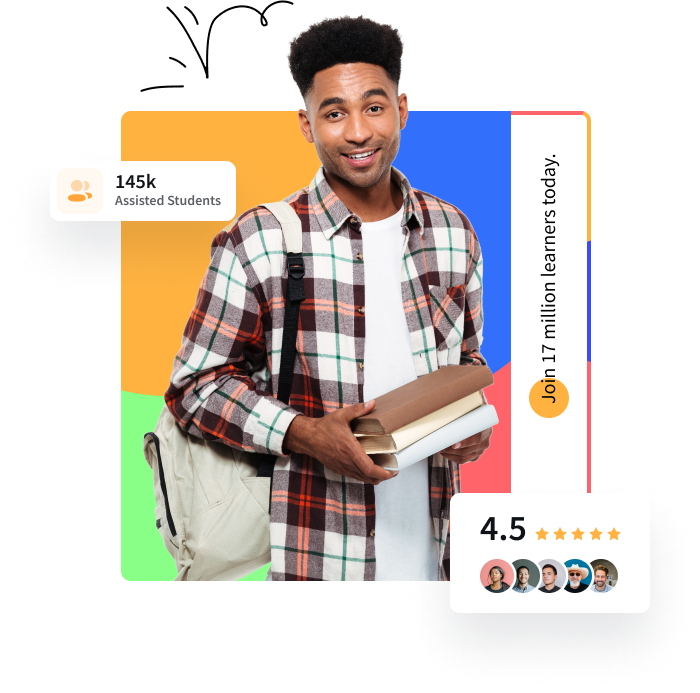
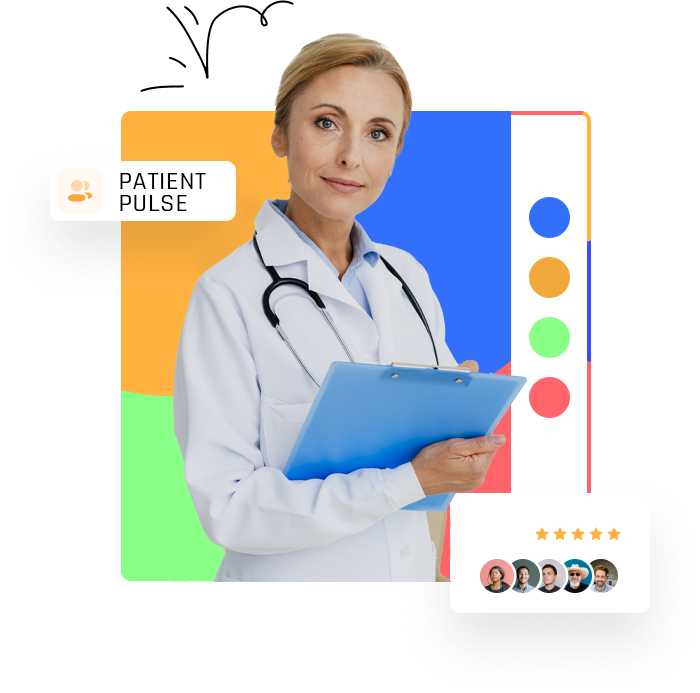
Refactor text in BannerSection and TestimonialSection components

Changed region(s): [[0.15, 0.0, 0.84, 0.8485], [0.69, 0.7273, 0.75, 0.7879]]

diff --git a/Front/src/pages/about/TestimonialSection.js b/Front/src/pages/about/TestimonialSection.js
@@ -42,157 +42,9 @@ const Testimonial = () => {
         ]
     };
 
-    const [state, setState] = useState(true);
-
-    const counters = [
-        {
-            countNum: 350,
-            countTitle: 'Total Case Handled',
-            countSubtext: '',
-            countIcon: countIcon1,
-        },
-        {
-            countNum: 500,
-            countTitle: 'Happy Patients',
-            countSubtext: '',
-            countIcon: countIcon2,
-        },
-        {
-            countNum : 30,
-            countTitle: 'Registered Patients',
-            countSubtext: '',
-            countIcon: countIcon3,
-        },
-        {
-            countNum : 10,
-            countTitle: 'Years of Experience',
-            countSubtext: '',
-            countIcon: countIcon4,
-        }
-
-    ];
-
-
-    return (
-        <div className="student_satisfaction-section pt---110 pb---120">
-            <div className="container"> 
-                <div className="react__title__section-all pb---30">
-                    <div className="row">
-                        <div className="col-md-12 text-center">
-                            <h6 className="wow animate__fadeInUp" data-wow-duration="0.3s">Patient Satisfaction</h6>
-                            <h2 className="react__tittle wow animate__fadeInUp" data-wow-duration="0.5s">Patient Feedback</h2>
-                        </div>                                
-                    </div>                            
-                </div>                       
-                <div className="feedreact-slider owl-carousel">
-                    <Slider {...sliderSettings}>
-                        <div className="event__card">
-                            <div className="event__card--content">
-                                <div className="event__card--content-area">
-                                    <div className="testimonial__ratings">
-                                        <em className="icon_star"></em>
-                                        <em className="icon_star"></em>
-                                        <em className="icon_star"></em>
-                                        <em className="icon_star"></em>
-                                        <em className="icon_star_alt"></em>
-                                        <span> (14 Reviews) </span>
-                                    </div>
-                                    <div className="parag">We are a Portsmouth based web design and e-marketing agency. We understand how important a website is to any business, big or small. Your online presence is now more important than ever before.</div>
-                                </div>
-                                <img className="poly" src={polyImg} alt="image" />
-                            </div>
-                            <div className="author-sec">
-                                <div className="icon">
-                                    <img src={testiImg1} alt="image" />
-                                </div>
-                                <div className="text">
-                                    <h4>Kasun Perera</h4>
-                                    <p>Journalist</p>
-                                </div>
-                            </div>
-                        </div>
-                        <div className="event__card">
-                            <div className="event__card--content">
-                                <div className="event__card--content-area">
-                                    <div className="testimonial__ratings">
-                                        <em className="icon_star"></em>
-                                        <em className="icon_star"></em>
-                                        <em className="icon_star"></em>
-                                        <em className="icon_star"></em>
-                                        <em className="icon_star"></em>
-                                        <span> (18 Reviews) </span>
-                                    </div>
-                                    <div className="parag">We are a Portsmouth based web design and e-marketing agency. We understand how important a website is to any business, big or small. Your online presence is now more important than ever before.</div>
-                                </div>
-                                <img className="poly" src={polyImg} alt="image" />
-                            </div>
-                            <div className="author-sec">
-                                <div className="icon">
-                                    <img src={testiImg2} alt="image" />
-                                </div>
-                                <div className="text">
-                                    <h4>Hansana Dhanuri</h4>
-                                    <p>Teacher</p>
-                                </div>
-                            </div>
-                        </div>
-                        <div className="event__card">
-                            <div className="event__card--content">
-                                <div className="event__card--content-area">
-                                    <div className="testimonial__ratings">
-                                        <em className="icon_star"></em>
-                                        <em className="icon_star"></em>
-                                        <em className="icon_star"></em>
-                                        <em className="icon_star_alt"></em>
-                                        <em className="icon_star_alt"></em>
-                                        <span> (26 Reviews) </span>
-                                    </div>
-                                    <div className="parag">We are a Portsmouth based web design and e-marketing agency. We understand how important a website is to any business, big or small. Your online presence is now more important than ever before.</div>
-                                </div>
-                                <img className="poly" src={polyImg} alt="image" />
-                            </div>
-                            <div className="author-sec">
-                                <div className="icon">
-                                    <img src={testiImg3} alt="image" />
-                                </div>
-                                <div className="text">
-                                    <h4>Chandika Dewruwan</h4>
-                                    <p>Manager</p>
-                                </div>
-                            </div>
-                        </div>
-                    </Slider>
-                </div>
-            </div>
-            {counters &&
-                <div className="count__area2 pb---100">
-                    <div className="container">  
-                        <ul className="row">
-                            {counters.map( (counter, num) => (  
-                                <li key={num} className="col-xxl-3 col-xl-3 col-lg-3 col-md-3 col-sm-6">
-                                    <div className="count__content">
-                                        <div className="icon">
-                                            <img src={counter.countIcon} alt="image" />
-                                        </div>
-                                        <div className="text">
-                                            <CountUp start={state ? 0 : counter.countNum} end={counter.countNum} duration={10} onEnd= {()=> setState(false)} />
-                                            {({ countUpRef, start }) => (
-                                                <VisibilitySensor onChange={start} delayedCall>
-                                                    <span ref={countUpRef} />
-                                                    <span className="count__content-title counter">{counter.countNum}</span>
-                                                </VisibilitySensor>
-                                            )}<em>{counter.countSubtext}</em>
-                                            <p className="count__content">{counter.countTitle}</p> 
-                                        </div>                                           
-                                    </div>
-                                </li>
-                            ))} 
-                        </ul>                             
-                    </div>
-                </div>
-            }
-        </div>
-    );
+    // 
+    
+    
 }
 
 export default Testimonial;

diff --git a/Front/src/pages/home-3/TestimonialSection.js b/Front/src/pages/home-3/TestimonialSection.js
@@ -46,27 +46,27 @@ const Testimonial = () => {
 
     const counters = [
         {
-            countNum: 28,
-            countTitle: 'Foreign followers',
-            countSubtext: 'k',
+            countNum: 350,
+            countTitle: 'Total Case Handled',
+            countSubtext: '',
             countIcon: countIcon1,
         },
         {
-            countNum: 10,
-            countTitle: 'Classes complete',
-            countSubtext: 'k',
+            countNum: 500,
+            countTitle: 'Happy Patients',
+            countSubtext: '',
             countIcon: countIcon2,
         },
         {
-            countNum : 208,
-            countTitle: 'Students enrolled',
-            countSubtext: 'k',
+            countNum : 30,
+            countTitle: 'Registered Patients',
+            countSubtext: '',
             countIcon: countIcon3,
         },
         {
-            countNum : 54,
-            countTitle: 'Certified Teachers',
-            countSubtext: 'k',
+            countNum : 10,
+            countTitle: 'Years of Experience',
+            countSubtext: '',
             countIcon: countIcon4,
         }
 
@@ -79,8 +79,8 @@ const Testimonial = () => {
                 <div className="react__title__section-all pb---30">
                     <div className="row">
                         <div className="col-md-12 text-center">
-                            <h6 className="wow animate__fadeInUp" data-wow-duration="0.3s">Student Satisfaction</h6>
-                            <h2 className="react__tittle wow animate__fadeInUp" data-wow-duration="0.5s">Student Community <br/>Feedback</h2>
+                            <h6 className="wow animate__fadeInUp" data-wow-duration="0.3s">Patient Satisfaction</h6>
+                            <h2 className="react__tittle wow animate__fadeInUp" data-wow-duration="0.5s">Patient Feedback</h2>
                         </div>                                
                     </div>                            
                 </div>                       
@@ -106,8 +106,8 @@ const Testimonial = () => {
                                     <img src={testiImg1} alt="image" />
                                 </div>
                                 <div className="text">
-                                    <h4>Pelican Steve</h4>
-                                    <p>Student</p>
+                                    <h4>Kasun Perera</h4>
+                                    <p>Journalist</p>
                                 </div>
                             </div>
                         </div>
@@ -119,7 +119,7 @@ const Testimonial = () => {
                                         <em className="icon_star"></em>
                                         <em className="icon_star"></em>
                                         <em className="icon_star"></em>
-                                        <em className="icon_star_alt"></em>
+                                        <em className="icon_star"></em>
                                         <span> (18 Reviews) </span>
                                     </div>
                                     <div className="parag">We are a Portsmouth based web design and e-marketing agency. We understand how important a website is to any business, big or small. Your online presence is now more important than ever before.</div>
@@ -131,8 +131,8 @@ const Testimonial = () => {
                                     <img src={testiImg2} alt="image" />
                                 </div>
                                 <div className="text">
-                                    <h4>Chase Kroll</h4>
-                                    <p>IT Specialist</p>
+                                    <h4>Hansana Dhanuri</h4>
+                                    <p>Teacher</p>
                                 </div>
                             </div>
                         </div>
@@ -143,7 +143,7 @@ const Testimonial = () => {
                                         <em className="icon_star"></em>
                                         <em className="icon_star"></em>
                                         <em className="icon_star"></em>
-                                        <em className="icon_star"></em>
+                                        <em className="icon_star_alt"></em>
                                         <em className="icon_star_alt"></em>
                                         <span> (26 Reviews) </span>
                                     </div>
@@ -156,33 +156,8 @@ const Testimonial = () => {
                                     <img src={testiImg3} alt="image" />
                                 </div>
                                 <div className="text">
-                                    <h4>Jackson Pot</h4>
-                                    <p>Teacher</p>
-                                </div>
-                            </div>
-                        </div>
-                        <div className="event__card">
-                            <div className="event__card--content">
-                                <div className="event__card--content-area">
-                                    <div className="testimonial__ratings">
-                                        <em className="icon_star"></em>
-                                        <em className="icon_star"></em>
-                                        <em className="icon_star"></em>
-                                        <em className="icon_star"></em>
-                                        <em className="icon_star_alt"></em>
-                                        <span> (14 Reviews) </span>
-                                    </div>
-                                    <div className="parag">We are a Portsmouth based web design and e-marketing agency. We understand how important a website is to any business, big or small. Your online presence is now more important than ever before.</div>
-                                </div>
-                                <img className="poly" src={polyImg} alt="image" />
-                            </div>
-                            <div className="author-sec">
-                                <div className="icon">
-                                    <img src={testiImg2} alt="image" />
-                                </div>
-                                <div className="text">
-                                    <h4>Pelican Steve</h4>
-                                    <p>Student</p>
+                                    <h4>Chandika Dewruwan</h4>
+                                    <p>Manager</p>
                                 </div>
                             </div>
                         </div>

diff --git a/Front/src/pages/home-3/BannerSection.js b/Front/src/pages/home-3/BannerSection.js
@@ -31,7 +31,7 @@ const HomeBanner = () => {
                         <div className="col-xxl-6 col-xl-6 col-lg-6 col-md-12 col-sm-12">
                             <div className="hero4__content">
                                 <h1 className="hero4__title wow animate__fadeInUp" data-wow-duration="0.3s">Welcome to Our Ayurvedic Medical Clinic</h1>
-                                <h4 className="hero4__paragraph wow animate__fadeInUp" data-wow-duration="0.5s">"The natural healing force within each of us is the greatest force in getting well."<br/> - Hippocrates, Father of Medicine -</h4>                                    
+                                <p className="hero4__paragraph wow animate__fadeInUp" data-wow-duration="0.5s">"The natural healing force within each of us is the greatest force <br/>in getting well."<br/> - Hippocrates, Father of Medicine -</p>                                    
                                 <div className="event__video-btn--plays">
                                     <Link to="/course/1" className="hero4-btn wow animate__fadeInUp" data-wow-duration="0.7s">Book an Appointment</Link>
                                     <Link to="#" onClick={() => { openModal(); }} className="event__videos custom-popup wow animate__fadeInUp" data-wow-duration="0.9s">
